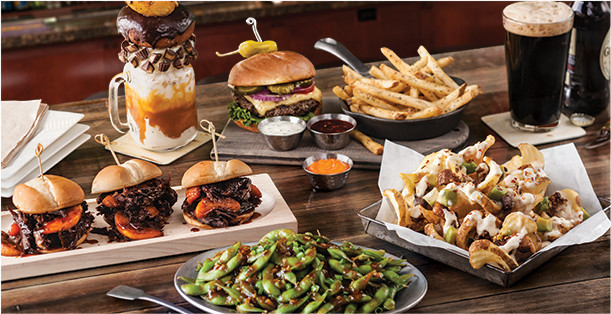
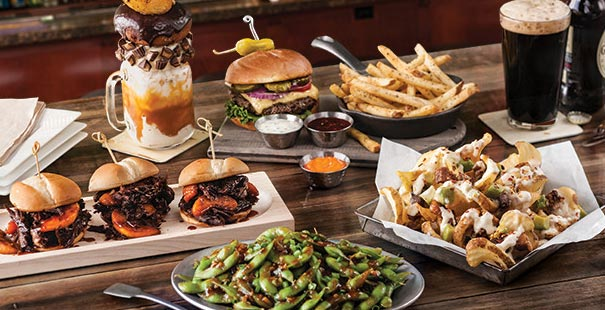
swapped out callout image with white border, style tweaks

diff --git a/style/sass/partials/_site.scss b/style/sass/partials/_site.scss
@@ -26,6 +26,13 @@
     box-shadow: $top $left $blur $color;
   }
 }
+
+@mixin opacity( $opacity ) {
+  opacity: $opacity;
+  $opacity-ie: $opacity * 100;
+  filter: alpha(opacity=$opacity-ie); //IE8
+}
+
 .visually-hidden {
   @include visually-hidden;
 }
@@ -153,6 +160,11 @@ input {
   a {
     display: block;
     text-align: center;
+    @include transition(opacity .2s);
+    &:hover {
+      cursor: pointer;
+      @include opacity(0.7);
+    }
   }
 }
 #top {
@@ -171,6 +183,11 @@ input {
   .callout {
     // padding: 0 2%;
     position: relative;
+    a {
+      &:hover {
+        cursor: pointer;
+      }
+    }
     .learn-more {
       display: block;
       text-align: center;
@@ -701,8 +718,8 @@ input {
     height: 80%;
     left: 10%;
     top: 10%;
-    border-bottom: 5px solid $white;
-    border-top: 5px solid $white;
+    border-bottom: 2px solid $white;
+    border-top: 2px solid $white;
     -webkit-transition: opacity 0.35s, -webkit-transform 0.35s;
     transition: opacity 0.35s, transform 0.35s;
     -webkit-transform: scale(0,1);

diff --git a/style/site.css b/style/site.css
@@ -5438,7 +5438,14 @@ input {
   margin: 50px 0; }
   .down-arrow a {
     display: block;
-    text-align: center; }
+    text-align: center;
+    -moz-transition: opacity 0.2s;
+    -webkit-transition: opacity 0.2s;
+    transition: opacity 0.2s; }
+    .down-arrow a:hover {
+      cursor: pointer;
+      opacity: 0.7;
+      filter: alpha(opacity=70); }
 
 #top .hero {
   margin-top: -40px;
@@ -5452,6 +5459,8 @@ input {
 
 #top .callout {
   position: relative; }
+  #top .callout a:hover {
+    cursor: pointer; }
   #top .callout .learn-more {
     display: block;
     text-align: center; }
@@ -5825,8 +5834,8 @@ input {
     height: 80%;
     left: 10%;
     top: 10%;
-    border-bottom: 5px solid #fff;
-    border-top: 5px solid #fff;
+    border-bottom: 2px solid #fff;
+    border-top: 2px solid #fff;
     -webkit-transition: opacity 0.35s, -webkit-transform 0.35s;
     transition: opacity 0.35s, transform 0.35s;
     -webkit-transform: scale(0, 1);
